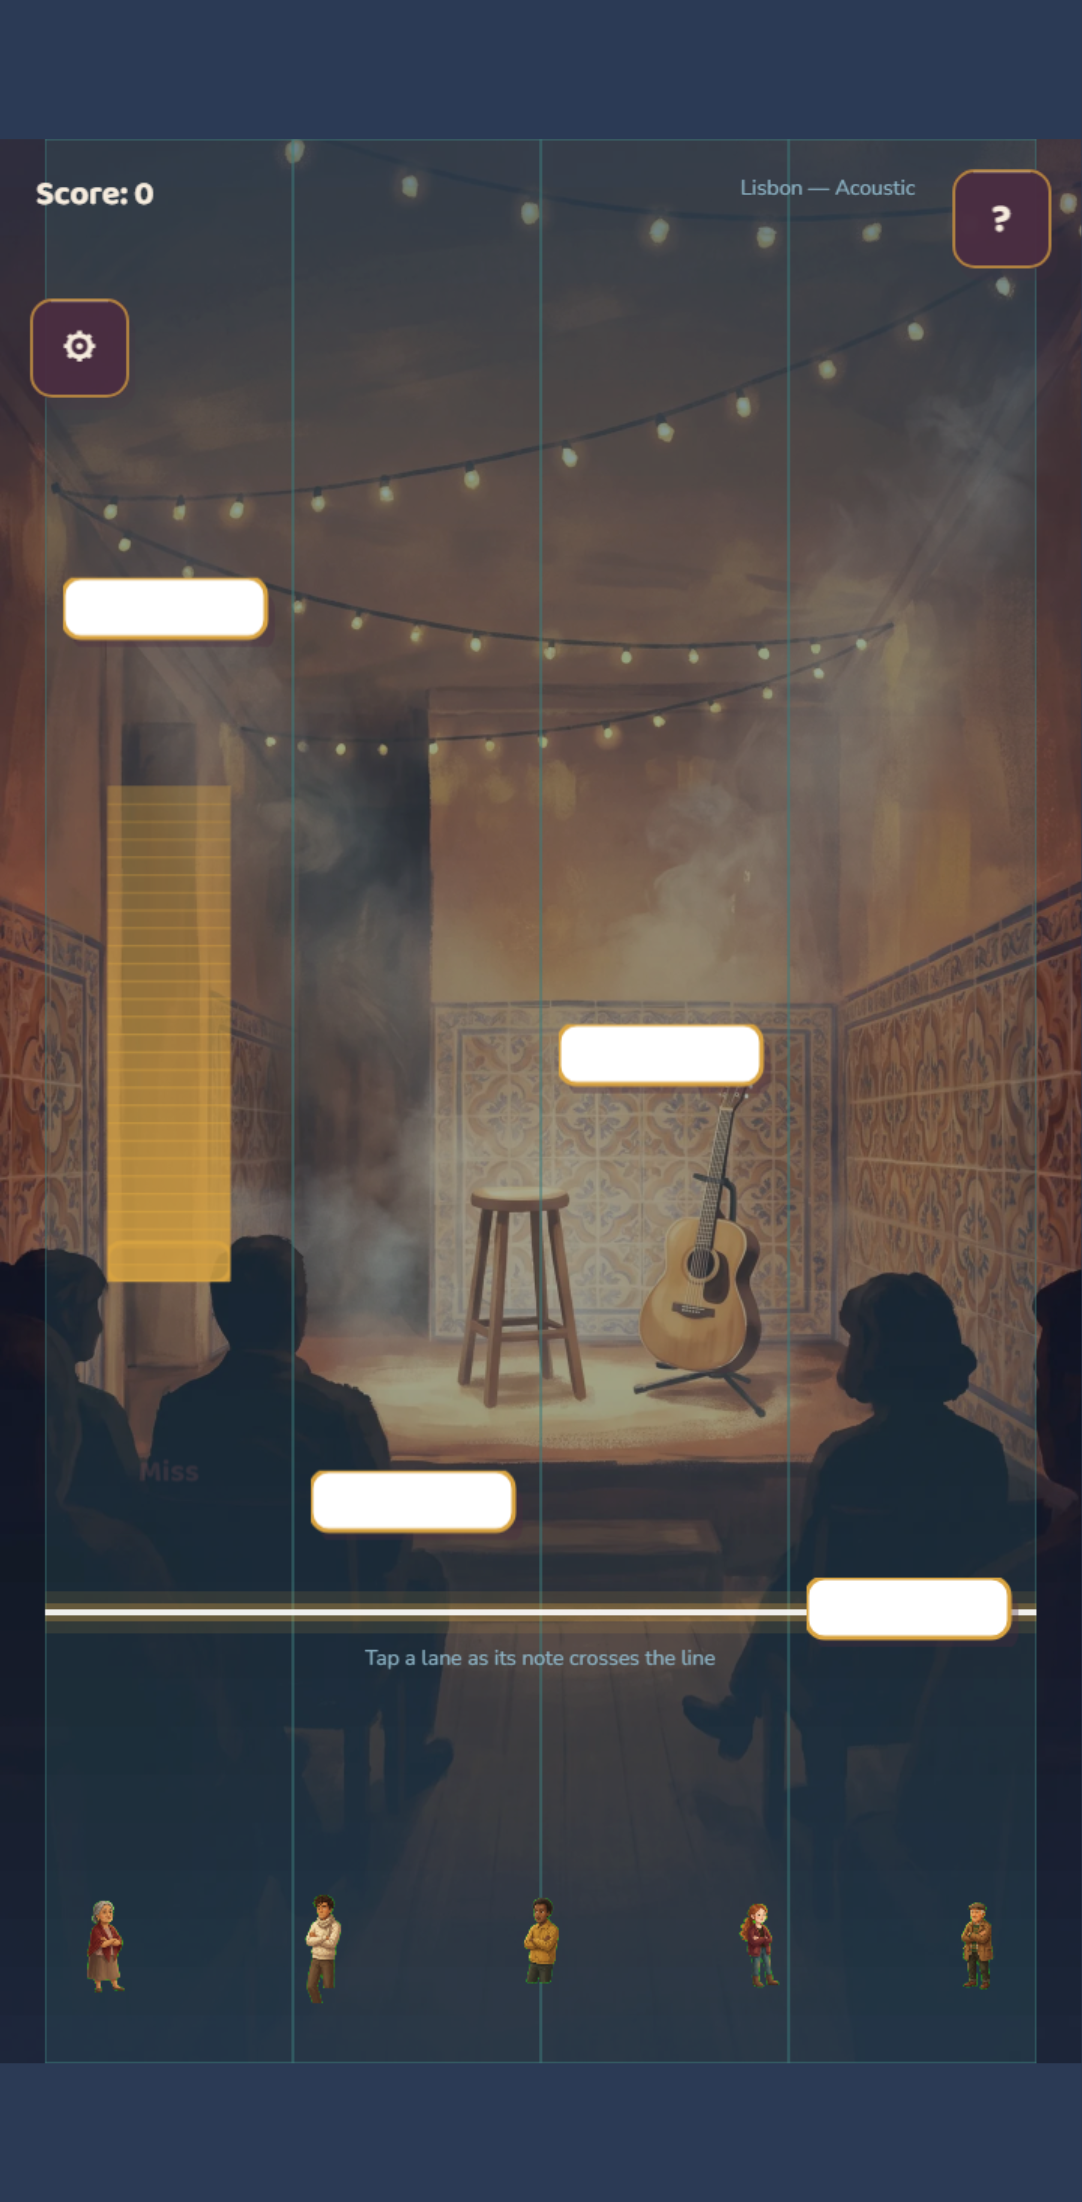
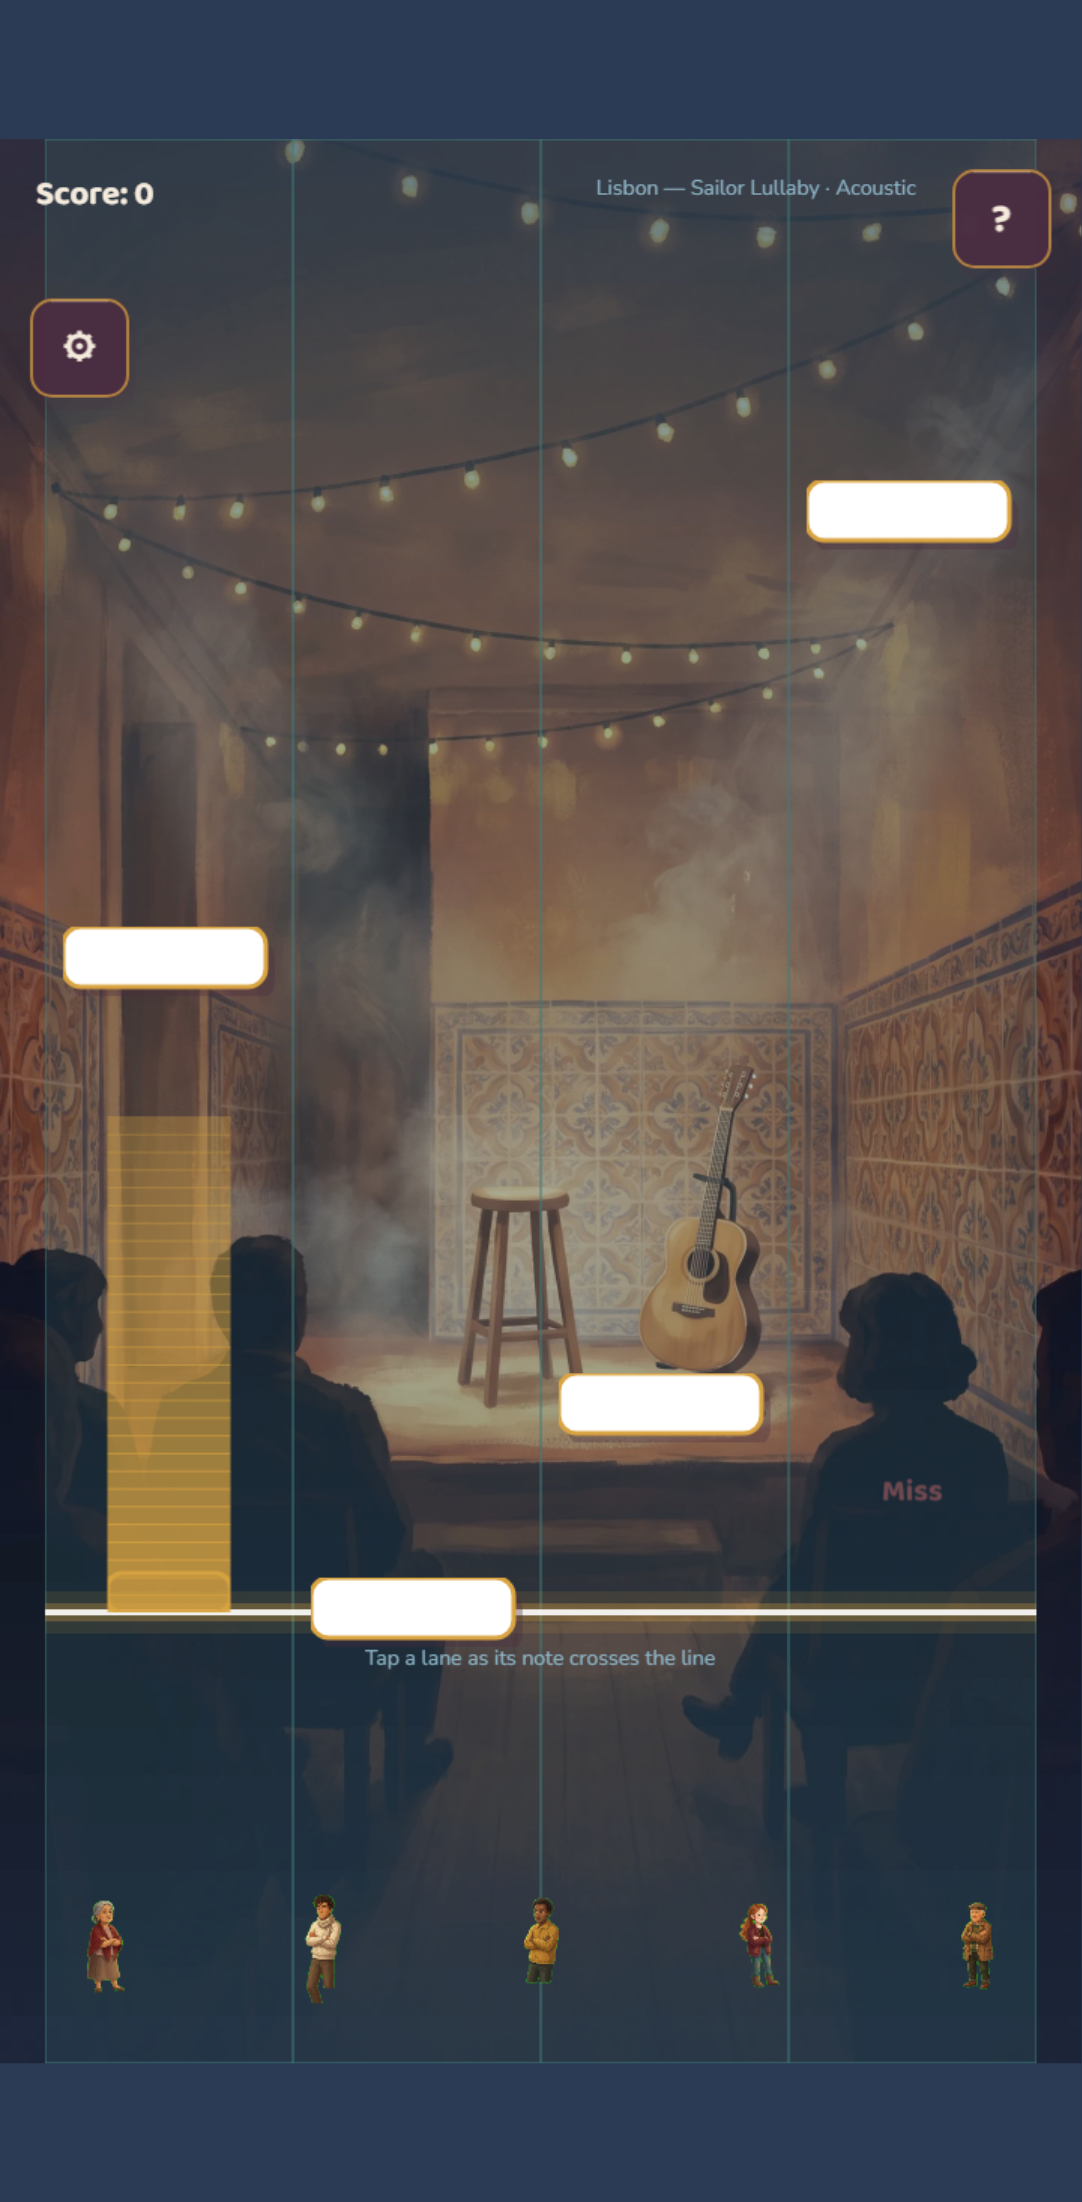
Part C: release gate, real-device and fresh-eyes protocols, updated before/after
Closes out the pre-public sequence with the three documents the gate depends on,
and records the automated checks with evidence rather than assertions.

RELEASE_GATE.md — 17 gates. Fourteen are green and evidenced:
  - 174/174 unit (was 128 at the start of this pass)
  - all 10 full-screen scenes render their painted texture
  - overlays dim rather than hide (0.82 / 0.78, were 0.98 / 0.85)
  - backdrop seams MEASURED: new scenes 4.2-10.2, rhythm 3.4-9.5, against 53.2
    on the original broken Tokyo asset
  - 8 songs across 4 cities; the return leg provably plays the other one
  - themed transitions fully reverted (grep for the opts, buildThemedOverlay and
    TransitionType returns zero; transition.ts is 50 lines)
  - the Clock fix is present and the new audio schedules on the AudioContext
    clock, never a scene timer
  - launch link: root 200, og-image 200, manifest 200, sw.js on tourlife-v3

Three remain open, and they are the owner's: the real-device pass, the
fresh-eyes playtest, and fixing whatever those surface. The verdict line reads
"READY TO SHARE: not yet" and says exactly what would flip it.

That is deliberate. This project has produced four separate "reproductions" that
turned out to be the ~4fps harness rather than the game, and its worst bug — a
song that ended before it began — hid for weeks because every test entered the
rhythm scene seconds after boot while every real player arrives minutes in.
[…]

diff --git a/docs/RELEASE_GATE.md b/docs/RELEASE_GATE.md
@@ -1,0 +1,76 @@
+# Release Gate — Tour Life: International Dates
+
+Every line must be green before the URL is shared publicly. Items marked **owner** cannot be
+automated and are the two genuine gaps in this project's verification.
+
+**Live:** https://tour-life-v3.vercel.app
+**Release candidate:** Part A `e2cd345` · Part B `197ce8d`
+
+---
+
+## Automated — evidence, not opinion
+
+| # | Gate | Status | Evidence |
+|---|---|---|---|
+| 1 | Unit tests green | ✅ | **174/174** (was 128 at the start of this pass) |
+| 2 | Full e2e suite green, all 4 device profiles | ⏳ | CI runs `34356147306` (Part A), `34358244717` (Part B) |
+| 3 | A1 background audit complete | ✅ | Table in `BAIS_TourLife_CloseOutPlan_2026-09-09.md`; corrected the brief twice |
+| 4 | No barren screens | ✅ | All 10 full-screen scenes render their painted texture — `e2e/no-barren-screens.spec.ts` |
+| 5 | Overlays dim rather than hide | ✅ | Settings 0.82, HowToPlay 0.78 (were 0.98 / 0.85) |
+| 6 | Backdrops seam-free — **measured** | ✅ | New scenes 4.2–10.2; rhythm 3.4–9.5; broken original was **53.2** |
+| 7 | Rhythm backdrops eyeballed (close-out C2) | ✅ | All four measured; Tokyo also inspected at full size |
+| 8 | Two songs per city | ✅ | 8 songs, 4 cities × 2 — `songVariety.test.ts` |
+| 9 | Return leg never replays the first night | ✅ | Live: Hallenbad 71 notes → Kreuzberg Static 84 notes |
+| 10 | Backing tracks with procedural fallback | ✅ | 4 tracks cached; `Item 4c` cold-boot audio guard still passes |
+| 11 | Themed transitions fully reverted | ✅ | grep for `transition:'card'/'lights'/'drive'`, `buildThemedOverlay`, `TransitionType` → **0 hits**; `transition.ts` is 50 lines |
+| 12 | No-fail intact after RhythmScene changes | ✅ | All-miss run still reaches Results — `verification.spec.ts` 12/12 |
+| 13 | Launch link | ✅ | root **200**, og-image **200**, manifest **200**, `sw.js` serving `tourlife-v3` |
+| 14 | Clock fix not regressed | ✅ | `startTime = this.game.loop.time + 1200` verified present; audio scheduled on the AudioContext clock, never a scene timer |
+
+## Owner — the two gaps no test can close
+
+| # | Gate | Status | Document |
+|---|---|---|---|
+| 15 | Real-device pass, iPhone + Android | ⬜ **owner** | `docs/REAL_DEVICE_TESTING.md` |
+| 16 | Fresh-eyes playtest, 3–5 blind testers | ⬜ **owner** | `docs/FRESH_EYES_PLAYTEST.md` |
+| 17 | Blockers from 15–16 fixed | ⬜ | `PLAYTEST_TRIAGE.md` (create when 16 returns) |
+
+**Why these matter more than the fourteen above.** This project has now produced four separate
+"reproductions" that turned out to be the ~4fps test harness rather than the game, and its worst
+bug — a song that ended before it began — hid for weeks because every test entered the rhythm scene
+seconds after boot while every real player arrives minutes in. Automated green is necessary and has
+never been sufficient here.
+
+---
+
+## Freeze
+
+In effect from `197ce8d`. Allowed before public: fixes to the new backdrops or songs, and blockers
+from gates 15–16. Not allowed: new content, new systems, themed transitions.
+
+---
+
+## Honest deferred list
+
+Written down rather than quietly dropped. Each with why.
+
+| Deferred | Why |
+|---|---|
+| Relationship arcs are one gate, not three stages | The mechanism ships and works (later beats unlock at standing 32). Three-stage arcs per bandmate are a writing task, not an engineering one. |
+| New minigame types are in 3 cities, not 4 | Deliberate — Mexico City keeps the original three so each city retains an identity. |
+| Part 3 reality layer (Wellbeing / Vices / Body-wear) | Designed and explicitly deferred in `CLAUDE.md`. It changes the game's tone from cozy to attritional; that is a direction decision, not a gap. |
+| A fifth city | The most expensive way to add length. Second visits already extend a run using existing art. |
+| Themed transitions | Reverted after being the origin or neighbour of every regression for weeks. They return only as an isolated feature with their own real-input tests, if ever. |
+| Only Tokyo's regenerated backdrop eyeballed at full size | The other three were measured for seams (3.4–9.5) and load correctly, but not visually inspected one by one. |
+
+---
+
+## Verdict
+
+**READY TO SHARE: not yet** — https://tour-life-v3.vercel.app
+
+Fourteen of seventeen gates are green with evidence. The three open ones are gates 15–17: the
+real-device pass and the fresh-eyes playtest, plus fixing whatever they surface. Those are yours to
+run, and they are the two checks this project's history says matter most.
+
+Flip this line to **READY TO SHARE: yes** once 15–17 are green. Nothing else is blocking.

diff --git a/docs/REAL_DEVICE_TESTING.md b/docs/REAL_DEVICE_TESTING.md
@@ -1,0 +1,84 @@
+# Real-Device Testing — the owner's pass
+
+**Why this exists:** nothing in CI runs on real hardware. The whole automated suite runs in a
+headless browser that this project has repeatedly measured at ~4 frames per second, which has
+produced false failures *and* false all-clears. Four separate "reproductions" this month turned out
+to be the harness rather than the game, and the duplicate-dialogue bug could only be reproduced in
+CI. Touch latency, real audio, PWA install, and how the thing actually feels in a hand are things
+only you can check.
+
+**Time:** ~25 minutes across two devices. **Do this on the live URL**, not localhost.
+
+**Before you start:** close ALL tabs of the game first, then open it fresh. The service worker
+serves the previous version to an already-open tab, and a stale manifest is exactly the kind of
+false negative that has wasted a testing pass before.
+
+**Live URL:** https://tour-life-v3.vercel.app
+
+---
+
+## Device A — iPhone (Safari)
+
+| # | Check | PASS / FAIL | Notes |
+|---|---|---|---|
+| 1 | Loads to Title, art visible, no blank screen | | |
+| 2 | Audio starts after your first tap (browsers require a gesture — expected) | | |
+| 3 | Canvas is centred, nothing cut off at the edges | | |
+| 4 | New Run → intro plays **once** (tap fast on purpose — this caught a real bug) | | |
+| 5 | Intro, band creation, route screen all show painted art, not flat navy | | |
+| 6 | Pick a tour promise; it reads back on the route screen | | |
+| 7 | Van scene appears on the way into the first city | | |
+| 8 | Minigame 1 — playable, you can finish it | | |
+| 9 | Rhythm — **calibrate latency first** (Settings → audio offset) | | |
+| 10 | Rhythm — notes fall, taps register, you can score a real hit (not all misses) | | |
+| 11 | Rhythm — the backing track is audible and in time with the notes | | |
+| 12 | Results → after-show → journal, no stuck screens | | |
+| 13 | Return leg — the social feed appears, and mentions your first night accurately | | |
+| 14 | Return leg — the song is **different** from the first night (check the label) | | |
+| 15 | Scrapbook — epilogue reads correctly; "Save tour as image" produces a file | | |
+| 16 | Add to Home Screen; launches standalone; plays offline after one load | | |
+
+## Device B — Android (Chrome), mid-range if possible
+
+Repeat 1–16. A mid-range phone matters more than a flagship here: the rhythm scene's timing and the
+new backing-track sync are the things most likely to differ on slower hardware, and a cheap Android
+is the closest thing to a worst case that you own.
+
+| # | Check | PASS / FAIL | Notes |
+|---|---|---|---|
+| 1–16 | (as above) | | |
+| 17 | Frame rate feels playable during rhythm (no visible stutter on falling notes) | | |
+| 18 | Two-finger input works in "Hold the Mix" (both faders at once) | | |
+
+---
+
+## All six minigame types
+
+Each appears in a specific city, so a single run will not show you all of them. Check them across
+runs, or use a seed you have already seen.
+
+| Type | Where | Playable? | Does the intro line teach the mechanic? |
+|---|---|---|---|
+| timing | Lisbon / Tokyo soundcheck | | |
+| drag | Tokyo "Pack the Van", Lisbon "Load-In" | | |
+| choice | Mexico City interview | | |
+| **sequence** | Berlin "Modular Check" | | |
+| **sustain** | Tokyo "Hold the Mix" | | |
+| **pressure** | Lisbon "Live on Air" | | |
+
+## Console check (desktop, F12)
+
+Play one full city loop with the console open.
+
+- [ ] Zero red errors
+- [ ] No `MISSING textures` warnings from BootScene
+- [ ] No failed network requests for game assets
+
+---
+
+## If something fails
+
+Record: which device, which step number, what you saw, and whether it repeated on a second try.
+A screenshot beats a description. If it is a rhythm or timing issue, note **how long you had been
+playing** before it happened — session length was the hidden variable behind the worst bug in this
+project's history, and no test found it because every test entered rhythm seconds after boot.

diff --git a/docs/BAIS_TourLife_BeforeAfter_PublicRelease_2026-09-08.md b/docs/BAIS_TourLife_BeforeAfter_PublicRelease_2026-09-08.md
@@ -114,7 +114,12 @@ offline after one load.
 | Minigame → ending | 5 of 7 reached it | **10 of 10** |
 | Epilogue depth | Ending + tags + 1 flourish | + **promise** + **return leg** + minigame flourish |
 | Rhythm backdrops | Three stitched bands, hard seams | **Regenerated** as one continuous room |
-| Unit tests | 128 | **162** |
+| Barren screens | 5 scenes on flat navy | **0** — every full-screen scene painted |
+| Overlays | Opaque, hid the world behind | **Dimmed** (0.82 / 0.78) |
+| Songs | 1 per city, 4 per run | **2 per city, 8 per run** |
+| Return-leg song | Same as the first night | **Always the other one** |
+| Backing tracks | Procedural only | **4 real tracks**, procedural still the fallback |
+| Unit tests | 128 | **174** |
 
 ## What was built
 
@@ -202,6 +207,49 @@ Fixed with an explicit `firstShowRecorded` marker.
 Rewritten to assert by type across all cities — a better test regardless.
 
 ---
+
+### 11. No barren screens (close-out Part A)
+Audited every scene for a real painted background versus a bare fill. The audit **corrected the
+brief twice**: Results already had one (it reuses the rhythm stage), and the social feed needed
+nothing (a panel over an already-painted, already-dimmed City).
+
+Five genuinely bare scenes — Opening, BandCreator, RoutePlan, Scrapbook (and its epilogue), and Van
+— now have painted backdrops. Those are the screens players linger on, which is exactly where flat
+navy broke the single-painted-world contract the rest of the game holds.
+
+**A finding the brief did not cover:** Settings and HowToPlay *are* genuine overlays, so the
+"dim the scene behind" rule applies — but both drew an effectively opaque fill (0.98 and 0.85),
+hiding the painted scene and producing the very barren look the pass exists to remove. A paused
+scene still renders, so dropping them to 0.82 / 0.78 was a code fix, cheaper than two more assets.
+
+Seams **measured, not eyeballed**: 4.2–10.2 across the new backdrops and 3.4–9.5 across all four
+rhythm ones, against **53.2** on the original broken Tokyo backdrop. That also closes close-out item
+C2 with numbers instead of an opinion.
+
+### 12. Two songs per city (close-out Part B)
+Every city had one song, so a run heard four tracks and the return leg replayed the first night note
+for note. Each city now carries a pair: the seed picks the opener, the return leg always plays the
+other. **8 distinct song plays per tour, up from 4**, and repetition inside a city is now
+structurally impossible rather than a content convention.
+
+New second songs, each the same band's other side: *Tejo After Midnight* (Lisbon, 108bpm),
+*Last Train Home* (Tokyo, 84bpm), *Mercado Eléctrico* (Mexico City, 122bpm), *Hallenbad*
+(Berlin, 96bpm) — all with real backing tracks, with the procedural bed still underneath.
+
+**The constraint that shaped it:** pre-show choices and story gates name arrangement IDs belonging
+to the city's first song. Different IDs on the second song would have made every pre-show choice a
+silent no-op — `pickArrangement` falls back to `arrangements[0]`, so it would still "work" while
+meaning nothing. Each second song reuses its city's arrangement IDs, and a test asserts it.
+
+**Sync is on the audio clock.** The chart starts 1.2s after the scene, so the track is scheduled at
+`AudioContext.currentTime + delay`. A scene timer would have reintroduced exactly the frame-delta
+class of bug that made a song end before it began.
+
+Verified live: first night **Hallenbad, 71 notes** → return leg **Kreuzberg Static, 84 notes**.
+
+**A project rule changed, deliberately:** `CLAUDE.md` said "no audio files". The title theme was
+already an exception; four backing tracks make it policy. Procedural remains the fallback
+everywhere, so the rule's intent — never depend on an asset that might not load — still holds.
 
 # PART THREE — WHAT REMAINS
 

diff --git a/docs/FRESH_EYES_PLAYTEST.md b/docs/FRESH_EYES_PLAYTEST.md
@@ -1,0 +1,81 @@
+# Fresh-Eyes Playtest
+
+**Why this exists:** everyone who has touched this game knows how it is supposed to work, which
+makes all of us the wrong people to judge whether it explains itself. Automated tests prove the
+game *functions*. They cannot tell you whether a stranger understands what they are looking at in
+the first sixty seconds, or whether they want a second run.
+
+**Who:** 3–5 people who have never seen it. Ideally at least one who does not play rhythm games.
+
+**How long:** one full run, about 30 minutes, on their own phone.
+
+**Link:** https://tour-life-v3.vercel.app
+
+---
+
+## What to tell them (and nothing more)
+
+> "It's a game about a band on tour. Play it on your phone, however you want. Tap to advance,
+> there are no wrong answers. When you get to the music part, tap the lanes as the notes reach the
+> gold line. Tell me what you actually thought afterwards."
+
+Do not explain the minigames. Do not warn them about anything. Do not sit and watch over their
+shoulder narrating — if they get stuck, that is the single most valuable thing this exercise can
+find, and prompting them destroys it.
+
+---
+
+## The five questions
+
+Ask afterwards, in this order. Write the answers down verbatim where you can.
+
+**1. What did you think was going on in the first minute?**
+Tests whether the opening explains itself. If they cannot describe the premise, the intro is not
+doing its job regardless of how nice it looks.
+
+**2. Was there any point where you were stuck, confused, or wanted to go back?**
+The back button exists and now has content long enough to reach it — but if nobody notices it,
+that is the same as it not existing.
+
+**3. Was there anything you wanted to do that the game wouldn't let you?**
+The most useful question in the set. Catches missing affordances rather than broken ones.
+
+**4. Did the music part feel fair? Which minigame confused you most?**
+Rhythm fairness is the thing most likely to differ on their hardware and their reflexes. There are
+six minigame types now; "confused" is a design signal, not a player failing.
+
+**5. Would you play again, or send this to someone? Yes / maybe / no — and why?**
+The only question that measures whether it is worth sharing. "Maybe" is a real answer; press
+gently on why.
+
+---
+
+## Reward participation, never positivity
+
+Thank them the same amount whether they loved it or listed fifteen problems. If people learn that
+enthusiasm is what gets appreciated, you stop receiving the thing you actually need. A tester who
+says "I got bored in the second city and closed it" has done you more good than four who say it's
+great.
+
+Say so explicitly up front: *"Please be blunt — unflattering is more useful to me than kind."*
+
+---
+
+## Triage
+
+Log every finding in `PLAYTEST_TRIAGE.md` under one of two headings. Be honest about which:
+
+**Blockers — fix before public**
+- Anyone stuck with no way forward
+- Anything that reads as broken (even if technically working — perception is the bug)
+- Anything that made someone quit before the end
+- Console errors on their device
+
+**Non-blockers — log and decide later**
+- Preference disagreements ("I'd have liked more choices")
+- Wants that imply new features
+- Anything only one person hit and could not reproduce
+
+The gate in `RELEASE_GATE.md` requires blockers fixed, not the list empty. A shipped game with a
+known, written-down list of small annoyances is in far better shape than one held back until
+nobody can find anything.
